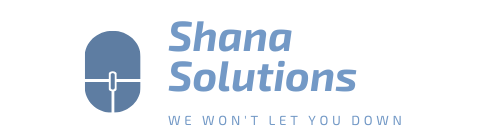
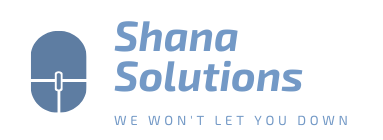
updated version4 by pooja

Changed region(s): [[0.0574, 0.1429, 0.8042, 0.8286], [0.2872, 0.8286, 0.9191, 0.9143]]

diff --git a/index.html b/index.html
@@ -48,13 +48,14 @@ html{
 .modal-footer{
 	max-height: 50px;
 }
+
 </style>
 <body id="page-top" oncontextmenu="return trued;">
 
-
+<div class="container">
 <nav class="navbar navbar-default" role="navigation">
 	<div class="container">
-
+    <div class="row">
 		<div class="navbar-header page-scroll">
 			<button type="button" class="navbar-toggle collapsed" data-toggle="collapse" data-target="#shana_navbar">
 		 			<span class="sr-only">Toggle Navigation</span>
@@ -64,7 +65,7 @@ html{
 		 		</button>
 			<a class="navbar-brand" href="#page-top"><img src="./img/shanas.png" class="img-responsive logo"></a>
 		</div>
-		<div class="collapse navbar-collapse" id="shana_navbar">
+		<div class="collapse navbar-collapse " id="shana_navbar">
 		<ul class="nav navbar-nav navbar-right">
 			<li class="hidden">
 				<a href="#page-top"></a>
@@ -89,12 +90,14 @@ html{
 			
 		</ul>
 		</div>
+  </div><!--grid row close-->
 	</div>
 </nav>
+</div>
 
 
 <!--Random images scrolling -->
-<div class="container randomimg"> 	
+<div class="container randoming"> 	
     <img src="https://source.unsplash.com/720x600/?developer" class="img-responsive">
 </div>
 <br>
@@ -180,7 +183,7 @@ html{
               						<div class="col-sm-4 col-md-4 col-lg-4 text-center">
               							<div><img src="./img/pooja1.jpg" alt="" class="center-block img-responsive img-circle"></div>
                 						<div style="height: 10px"></div>
-                						<p class="title mb-0">Pooja</p>
+                						<p class="title mb-0">Pooja K N</p>
                 						<p class="text-muted " style="font-size: 13px">Consultant</p>
               						</div>
 
@@ -312,7 +315,7 @@ html{
   </div>
   <br><!--description-->
   <div class="row text-center text-md-center text-lg-center">
-  	<div class="col-md-4 col-sm-6 col-xs-6">
+  	<div class="col-md-4 col-sm-12 col-xs-12">
   	  	<div class="team-member">
             <div class="team-img">
                 <img src="./img/anand1.jpg" alt="team member" class="img-responsive img-circle">
@@ -325,19 +328,19 @@ html{
         </div>
   </div>
   
-  <div class="col-md-4 col-sm-6 col-xs-6">
+  <div class="col-md-4 col-sm-12 col-xs-12">
         <div class="team-member">
             <div class="team-img">
                 <img src="./img/pooja.jpg" alt="team member" class="img-responsive img-circle" >
             </div>
         </div>
         <div class="team-title text-center">
-            <h4 class="text-weight-bold text-danger">Pooja</h4>
+            <h4 class="text-weight-bold text-danger">Pooja K N</h4>
             <span>Developer & Designer</span>
         </div>
   </div>
   
-  <div class="col-md-4 col-sm-6 col-xs-6">
+  <div class="col-md-4 col-sm-12 col-xs-12">
         <div class="team-member">
             <div class="team-img">
                 <img src="./img/vishal.jpg" alt="team member" class="img-responsive img-circle">

diff --git a/css/shananav.css b/css/shananav.css
@@ -1,7 +1,7 @@
 body{
     background-color: #ffffff;  
   }
-
+  
   .navbar-brand{
     margin:0;
     padding: 0;
@@ -9,9 +9,14 @@ body{
   }
   .logo{
     height: auto;
-    width: 350px; 
+    max-width: 310px;
+    padding-top: 10px;
+    position: absolute; 
   }
-   
+
+  .navbar{
+    margin-top: 5px;
+  } 
    .navbar-default{
      height: 80px;
      padding-top: 5px;
@@ -30,16 +35,16 @@ body{
     border: none;
     }
    .navbar-collapse{
-  top:30px !important;
-  position:relative;
-  font-size: 18px;
-   border: none;
-  
+    top:30px !important;
+    position:relative;
+    font-size: 18px;
+    border: none; 
    }
+
 /*Navbar ends */
 
 /* imgs */
-.randomimg img{
+.randoming img{
  display: block;
  margin-left: auto;
  margin-right: auto;  
